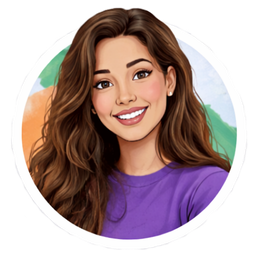
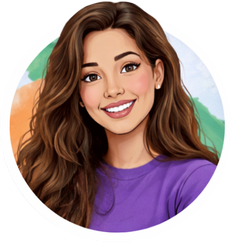
add cloudbuild

diff --git a/src/components/StellaChatbot.jsx b/src/components/StellaChatbot.jsx
@@ -899,7 +899,14 @@ You're not a therapist - you're a friendly guide helping people find the right s
         })
       });
 
-      const data = await response.json();
+      const contentType = response.headers.get('content-type') || '';
+      const data = contentType.includes('application/json')
+        ? await response.json()
+        : { error: `Non-JSON response from /api/chat (HTTP ${response.status})` };
+
+      if (!response.ok) {
+        throw new Error(data?.error || `Request failed (HTTP ${response.status})`);
+      }
       
       if (data.content && data.content.length > 0) {
         await animateAssistantResponse(sanitizeAssistantText(data.content[0].text));
@@ -908,7 +915,15 @@ You're not a therapist - you're a friendly guide helping people find the right s
       }
     } catch (error) {
       console.error('API unavailable, using local FAQ:', error);
-      if (nameFromInput) {
+      const msg = String(error?.message || '');
+      if (/api key not configured/i.test(msg)) {
+        const operatorHints = {
+          en: "The chat system is currently offline. If you need assistance, please contact the Casa de la Familia team at (877) 611-2272.",
+          es: "El sistema de chat está fuera de servicio en este momento. Si necesita ayuda, comuníquese con el equipo de Casa de la Familia al (877) 611-2272.",
+          ko: "현재 채팅 시스템이 오프라인 상태입니다. 도움이 필요하시면 Casa de la Familia 팀 (877) 611-2272로 연락해 주세요.",
+        };
+        await animateAssistantResponse(operatorHints[detectedLanguage] || operatorHints.en);
+      } else if (nameFromInput) {
         const nameGreetings = {
           en: `Hi ${nameFromInput}! It's great to meet you. I'm Stella from Casa de la Familia. What can I help you with today?`,
           es: `¡Hola ${nameFromInput}! Mucho gusto en conocerte. Soy Stella de Casa de la Familia. ¿En qué te puedo ayudar hoy?`,
@@ -939,9 +954,9 @@ You're not a therapist - you're a friendly guide helping people find the right s
     });
     
     const langMessages = {
-      en: 'Switching to English! What\'s on your mind?',
-      es: '¡Listo, hablemos en español! ¿Qué necesitas?',
-      ko: '한국어로 대화할게요! 무엇이 궁금하세요?'
+      en: "Yes, I can chat in English! What's on your mind?",
+      es: "¡Sí, puedo chatear en español! ¿Qué tienes en mente?",
+      ko: "네, 한국어로 대화할 수 있어요! 무엇이 궁금하세요?"
     };
     
     const nextLang = language === 'en' ? 'es' : language === 'es' ? 'ko' : 'en';

diff --git a/server/index.js b/server/index.js
@@ -410,10 +410,10 @@ app.post('/api/chat', async (req, res) => {
   try {
     const { system, messages } = req.body;
 
-    const geminiApiKey = String(process.env.GEMINI_API_KEY ?? '').trim();
+    const geminiApiKey = String(process.env.GEMINI_API_KEY ?? process.env.OPENAI_API_KEY ?? '').trim();
     if (!geminiApiKey) {
       return res.status(500).json({ 
-        error: 'API key not configured. Please set GEMINI_API_KEY environment variable.' 
+        error: 'API key not configured. Please set GEMINI_API_KEY (or OPENAI_API_KEY as fallback) environment variable.' 
       });
     }
 

diff --git a/functions/api/chat.js b/functions/api/chat.js
@@ -820,7 +820,7 @@ export async function onRequestPost(context) {
   try {
     const { system, messages } = await context.request.json();
 
-    const apiKey = String(context.env.GEMINI_API_KEY ?? '').trim();
+    const apiKey = String(context.env.GEMINI_API_KEY ?? context.env.OPENAI_API_KEY ?? '').trim();
     const modelName = String(context.env.GEMINI_MODEL ?? 'gemini-2.5-flash-lite').trim() || 'gemini-2.5-flash-lite';
 
     if (!apiKey) {
